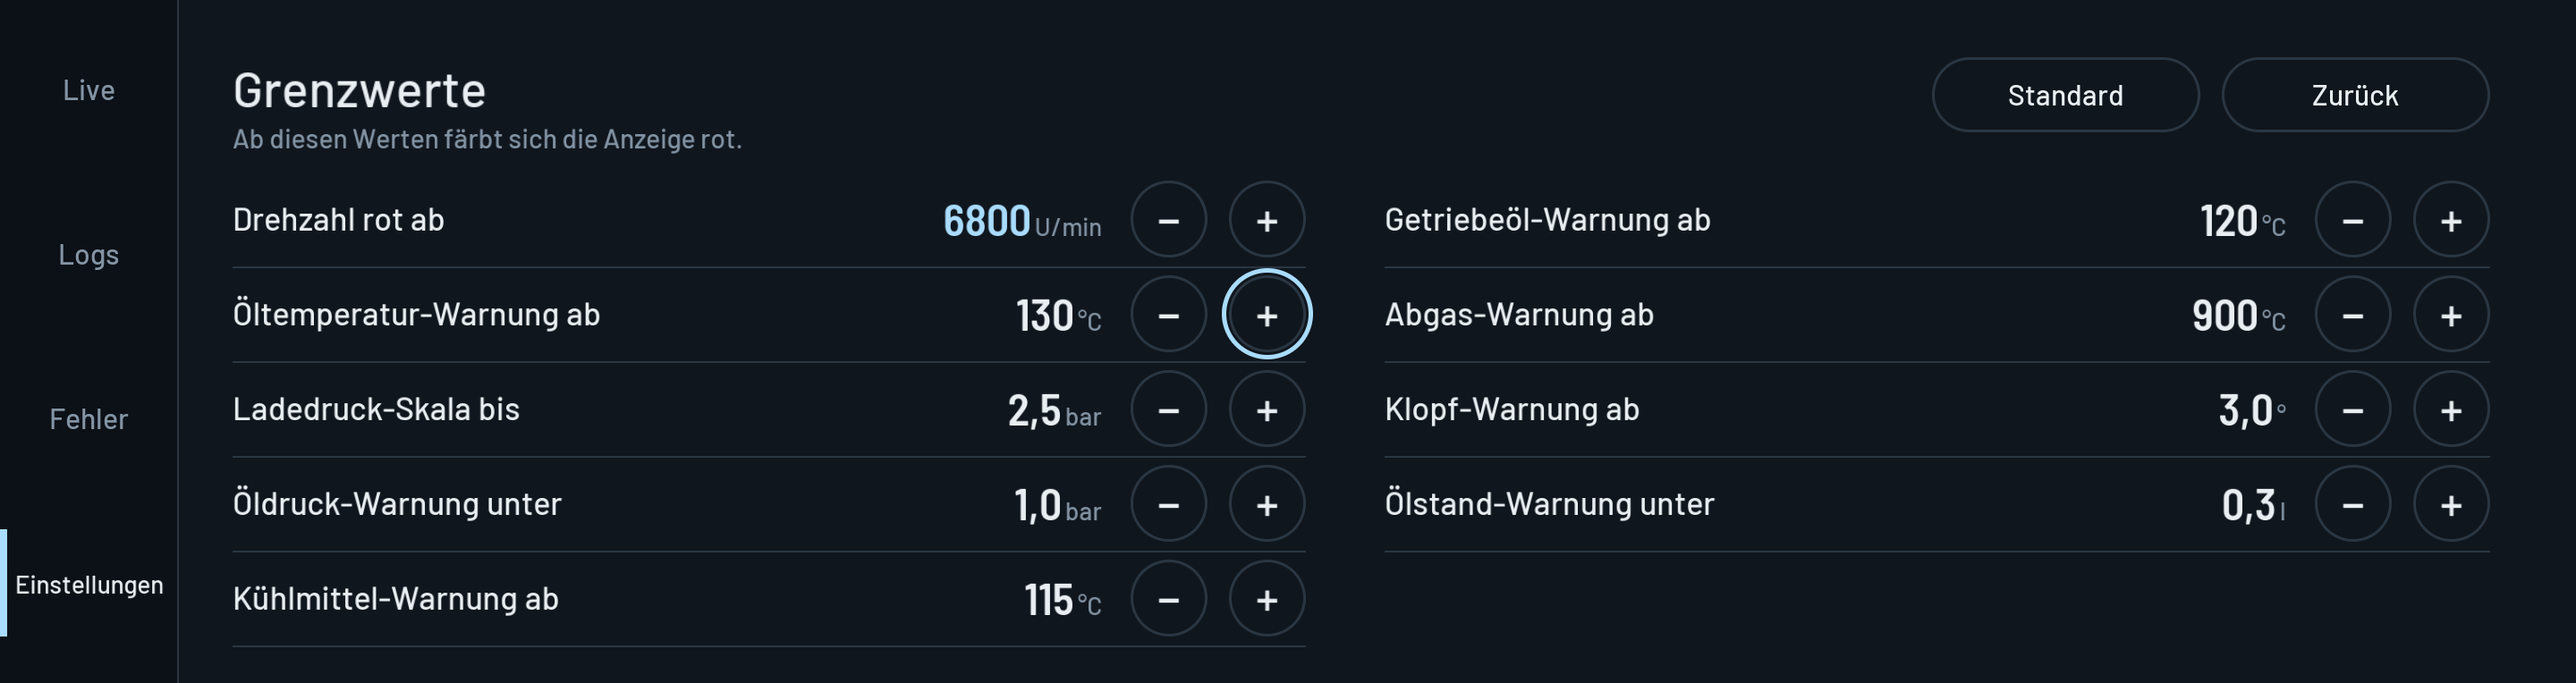
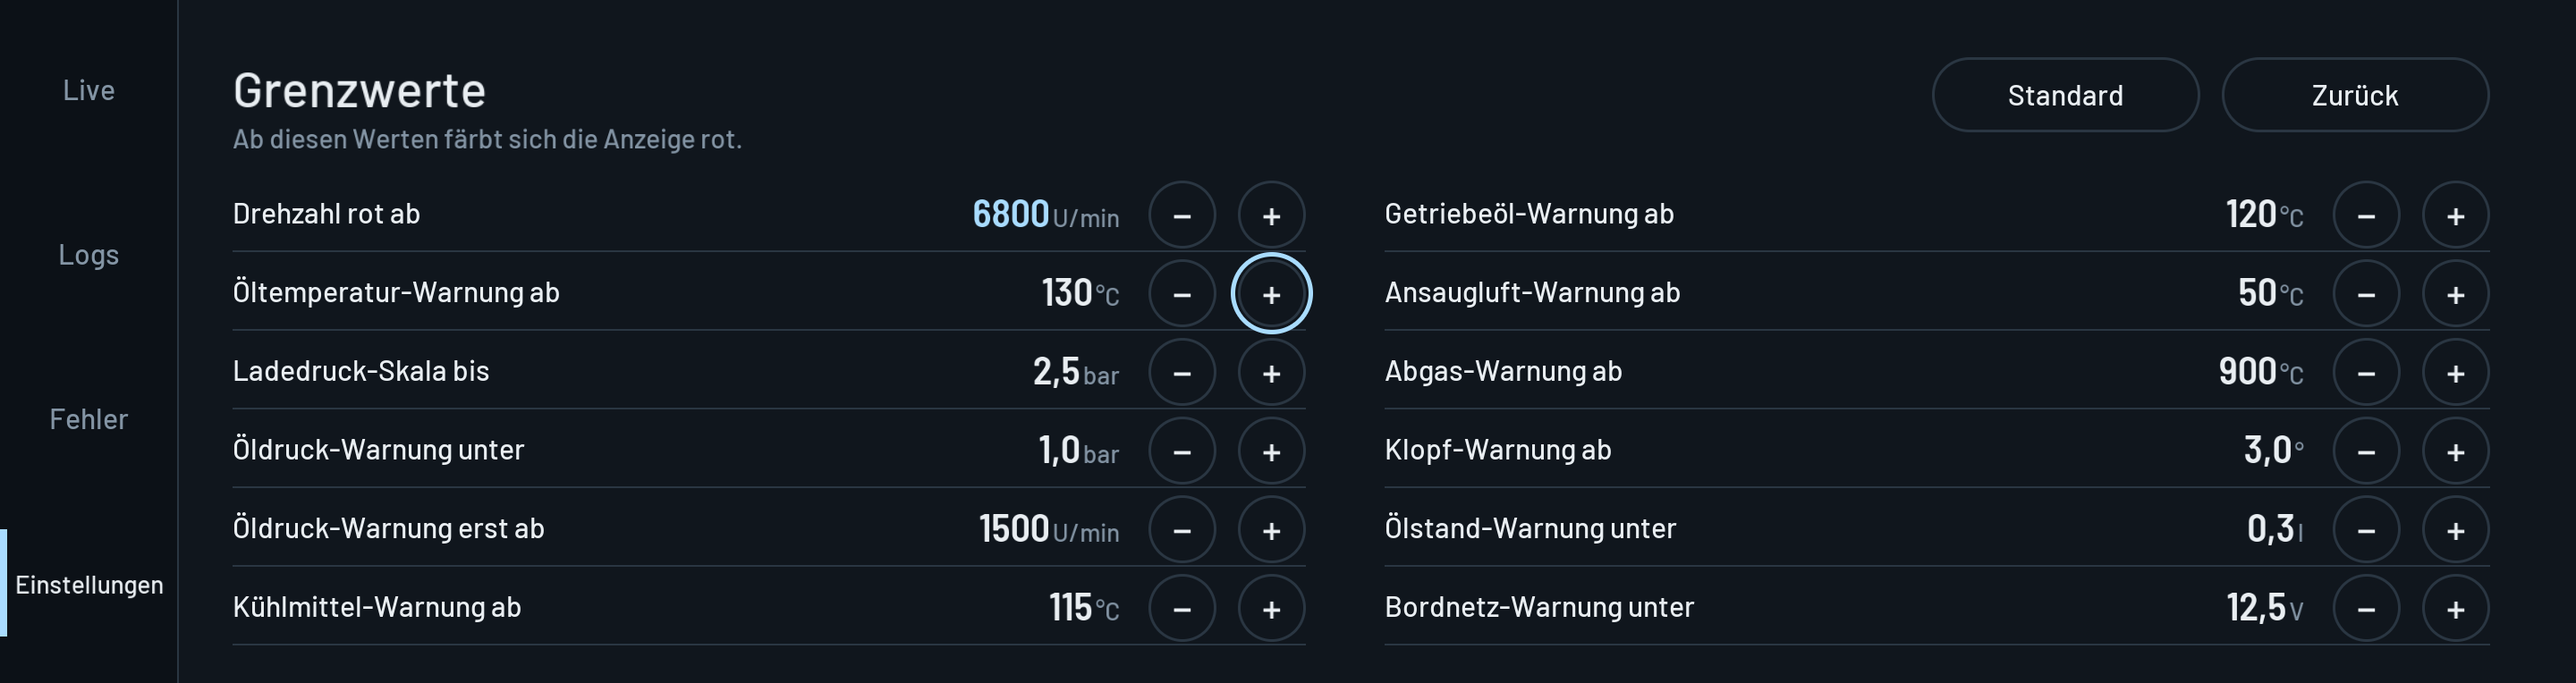
0.16.0: every limit settable (intake air warning, oil pressure warning from rpm, supply voltage warning added), twelve limits in two columns

diff --git a/apps/km_motordaten/src/dash.js b/apps/km_motordaten/src/dash.js
@@ -35,7 +35,6 @@ const RAIL = 200;             // the tab rail on the left
 const X0 = RAIL + 60;          // where page content starts
 const RPM_MAX = 7700;
 const OIL_MAX = 150;
-const OIL_PRESS_RPM = 1500;    // the oil pressure warning counts above this engine speed
 const COL = { left: { x: X0, w: 600 }, mid: { x: 980, w: 1076 }, right: { x: 2176, w: 608 } };
 
 const isNum = (v) => typeof v === 'number' && isFinite(v);
@@ -78,9 +77,9 @@ const TABS = [
     { id: 'tab:settings', page: 'settings', label: 'Einstellungen' }
 ].map((t, i) => Object.assign(t, { x: 0, y: 16 + i * 184, w: RAIL, h: 168 }));
 
-const ROW_H = 106;
-const SET_ROWS = 5;           // limits per column
-const SET_BTN = 86;
+const ROW_H = 88;
+const SET_ROWS = 6;           // limits per column
+const SET_BTN = 76;
 const SET_TOP = 196;
 const SET_COLS = [{ x: X0, w: 1200 }, { x: X0 + 1288, w: 1236 }];
 const BTN = 96;
@@ -90,7 +89,7 @@ const BACK_SET = { id: 'settings:back', x: W - PAD - 300, y: 64, w: 300, h: 84, 
 
 /* The settings menu: one card per sub-page. */
 const MENU = [
-    { id: 'menu:limits', page: 'limits', label: 'Grenzwerte', text: 'Ab wann Drehzahl, Temperaturen, Öldruck und Abgas rot werden' },
+    { id: 'menu:limits', page: 'limits', label: 'Grenzwerte', text: 'Ab wann jeder Wert rot wird: Drehzahl, Temperaturen, Drücke, Klopfen, Ölstand, Bordnetz' },
     { id: 'menu:ready', page: 'ready', label: 'Bereit für Volllast', text: 'Welche Temperaturen erreicht sein müssen, bis die Live-Seite „Bereit“ zeigt' }
 ].map((m, i) => Object.assign(m, { x: X0 + i * 1288, y: 220, w: 1236, h: 300 }));
 
@@ -332,7 +331,7 @@ function heatStrip(rec, x, y, w, h, value, r) {
 /* The temperatures' strips: their scales and where they turn warm. */
 const HEAT = {
     coolant: { lo: 0, hi: 130, warm: 70 },
-    intake: { lo: -10, hi: 70, warm: null, limit: 50 },
+    intake: { lo: -10, hi: 80, warm: null },
     gearbox: { lo: 0, hi: 140, warm: 60 },
     exhaust: { lo: 0, hi: 1000, warm: 300 }
 };
@@ -397,7 +396,7 @@ function readiness(rec, v, cfg) {
     readyBadge(rec, x, 520, v, cfg);
 
     const cells = [['Kühlmittel', v.coolant, Object.assign({}, HEAT.coolant, { limit: cfg.coolantMax, warm: cfg.coolantReady })],
-        ['Ansaugluft', v.intake, HEAT.intake], ['Getriebeöl', v.gearbox, Object.assign({}, HEAT.gearbox, { limit: cfg.gearboxMax, warm: cfg.gearboxReady })]];
+        ['Ansaugluft', v.intake, Object.assign({}, HEAT.intake, { limit: cfg.intakeMax })], ['Getriebeöl', v.gearbox, Object.assign({}, HEAT.gearbox, { limit: cfg.gearboxMax, warm: cfg.gearboxReady })]];
     cells.forEach((c, i) => {
         const cx = x + i * 236;
         const hot = isNum(c[1]) && c[2].limit !== null && c[1] >= c[2].limit;
@@ -454,14 +453,14 @@ function power(rec, v, cfg) {
 function health(rec, v, cfg, ui, extra) {
     const { x } = COL.right;
     rec.text('Öldruck', x, 262, 34, C.dim, { font: 'label' });
-    const low = isNum(v.oilPress) && isNum(v.rpm) && v.rpm > OIL_PRESS_RPM && v.oilPress < cfg.oilPressMin;
+    const low = isNum(v.oilPress) && isNum(v.rpm) && v.rpm > cfg.oilPressRpm && v.oilPress < cfg.oilPressMin;
     valueUnit(rec, isNum(v.oilPress) ? de(v.oilPress, 1) : '–', 'bar', x, 352, 96, low ? C.limit : C.text, 32, 'left');
     if (isNum(v.oilPressPeak)) {
         rec.text(`Spitze ${de(v.oilPressPeak, 1)} bar`, x, 394, 30, C.ice, { font: 'scale' });
     }
     const cells = [
         ['Abgas', isNum(v.exhaust) ? String(Math.round(v.exhaust)) : '–', '°C', isNum(v.exhaust) && v.exhaust >= cfg.exhaustMax],
-        ['Bordnetz', isNum(v.voltage) ? de(v.voltage, 1) : '–', 'V', false]
+        ['Bordnetz', isNum(v.voltage) ? de(v.voltage, 1) : '–', 'V', isNum(v.voltage) && v.voltage < cfg.voltageMin]
     ];
     cells.forEach((c, i) => {
         const cx = x + i * 216;
@@ -547,14 +546,14 @@ function settings(rec, cfg, ui) {
         const col = SET_COLS[i < SET_ROWS ? 0 : 1];
         const y = SET_TOP + (i % SET_ROWS) * ROW_H;
         rec.fillRect(col.x, y + ROW_H - 4, col.w, 2, C.line);
-        rec.text(it.label, col.x, y + 62, 36, C.text, { font: 'label' });
+        rec.text(it.label, col.x, y + 54, 32, C.text, { font: 'label' });
         const changed = cfg[it.key] !== it.def;
         const value = it.d ? de(cfg[it.key], it.d) : String(cfg[it.key]);
-        valueUnit(rec, value, it.unit, col.x + col.w - 2 * SET_BTN - 56, y + 68, 50, changed ? C.ice : C.text, 28, 'right');
+        valueUnit(rec, value, it.unit, col.x + col.w - 2 * SET_BTN - 56, y + 58, 44, changed ? C.ice : C.text, 28, 'right');
     });
     SETTINGS_TARGETS.forEach((t) => {
         const step = t.id.indexOf('dec:') === 0 || t.id.indexOf('inc:') === 0;
-        button(rec, t, ui, { size: step ? 52 : 32, primary: t.id === 'done' });
+        button(rec, t, ui, { size: step ? 44 : 32, primary: t.id === 'done' });
     });
 }
 

diff --git a/apps/km_motordaten/src/limits.js b/apps/km_motordaten/src/limits.js
@@ -18,11 +18,14 @@ const ITEMS = Object.freeze([
     { key: 'oilMax', label: 'Öltemperatur-Warnung ab', unit: '°C', def: 130, min: 110, max: 150, step: 5, d: 0 },
     { key: 'boostMax', label: 'Ladedruck-Skala bis', unit: 'bar', def: 2.5, min: 1.5, max: 3.5, step: 0.5, d: 1 },
     { key: 'oilPressMin', label: 'Öldruck-Warnung unter', unit: 'bar', def: 1.0, min: 0.5, max: 2.5, step: 0.1, d: 1 },
+    { key: 'oilPressRpm', label: 'Öldruck-Warnung erst ab', unit: 'U/min', def: 1500, min: 0, max: 4000, step: 250, d: 0 },
     { key: 'coolantMax', label: 'Kühlmittel-Warnung ab', unit: '°C', def: 115, min: 100, max: 125, step: 1, d: 0 },
     { key: 'gearboxMax', label: 'Getriebeöl-Warnung ab', unit: '°C', def: 120, min: 90, max: 140, step: 5, d: 0 },
+    { key: 'intakeMax', label: 'Ansaugluft-Warnung ab', unit: '°C', def: 50, min: 30, max: 80, step: 5, d: 0 },
     { key: 'exhaustMax', label: 'Abgas-Warnung ab', unit: '°C', def: 900, min: 600, max: 1000, step: 25, d: 0 },
     { key: 'knockMax', label: 'Klopf-Warnung ab', unit: '°', def: 3, min: 1, max: 8, step: 0.5, d: 1 },
     { key: 'oilLevelMin', label: 'Ölstand-Warnung unter', unit: 'l', def: 0.3, min: 0, max: 1, step: 0.1, d: 1 },
+    { key: 'voltageMin', label: 'Bordnetz-Warnung unter', unit: 'V', def: 12.5, min: 11, max: 14, step: 0.1, d: 1 },
     // ready for full load: each temperature on or off, and the one it has to reach
     { key: 'oilReadyOn', group: 'ready', def: 1, min: 0, max: 1, step: 1, d: 0, toggle: true },
     { key: 'oilReady', group: 'ready', label: 'Öltemperatur', unit: '°C', def: 80, min: 50, max: 110, step: 5, d: 0 },
